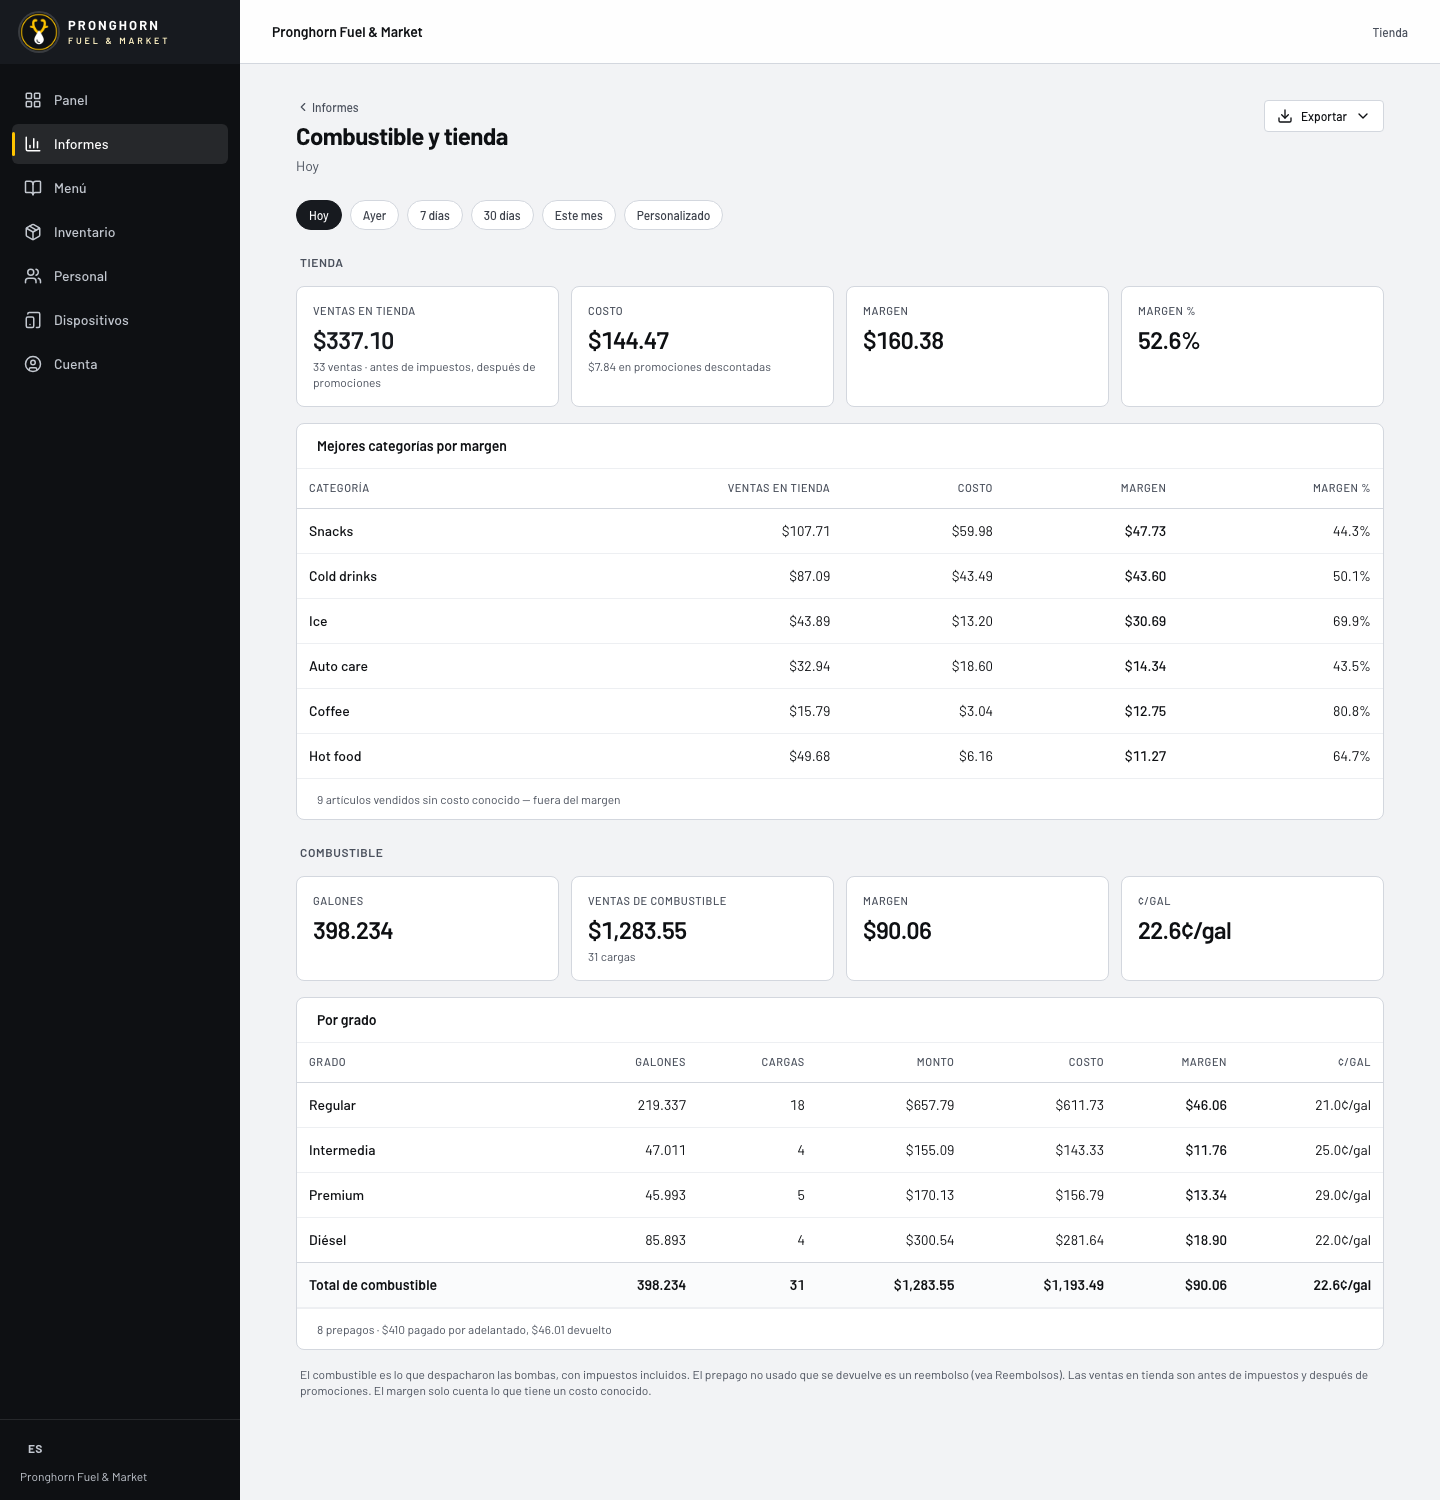
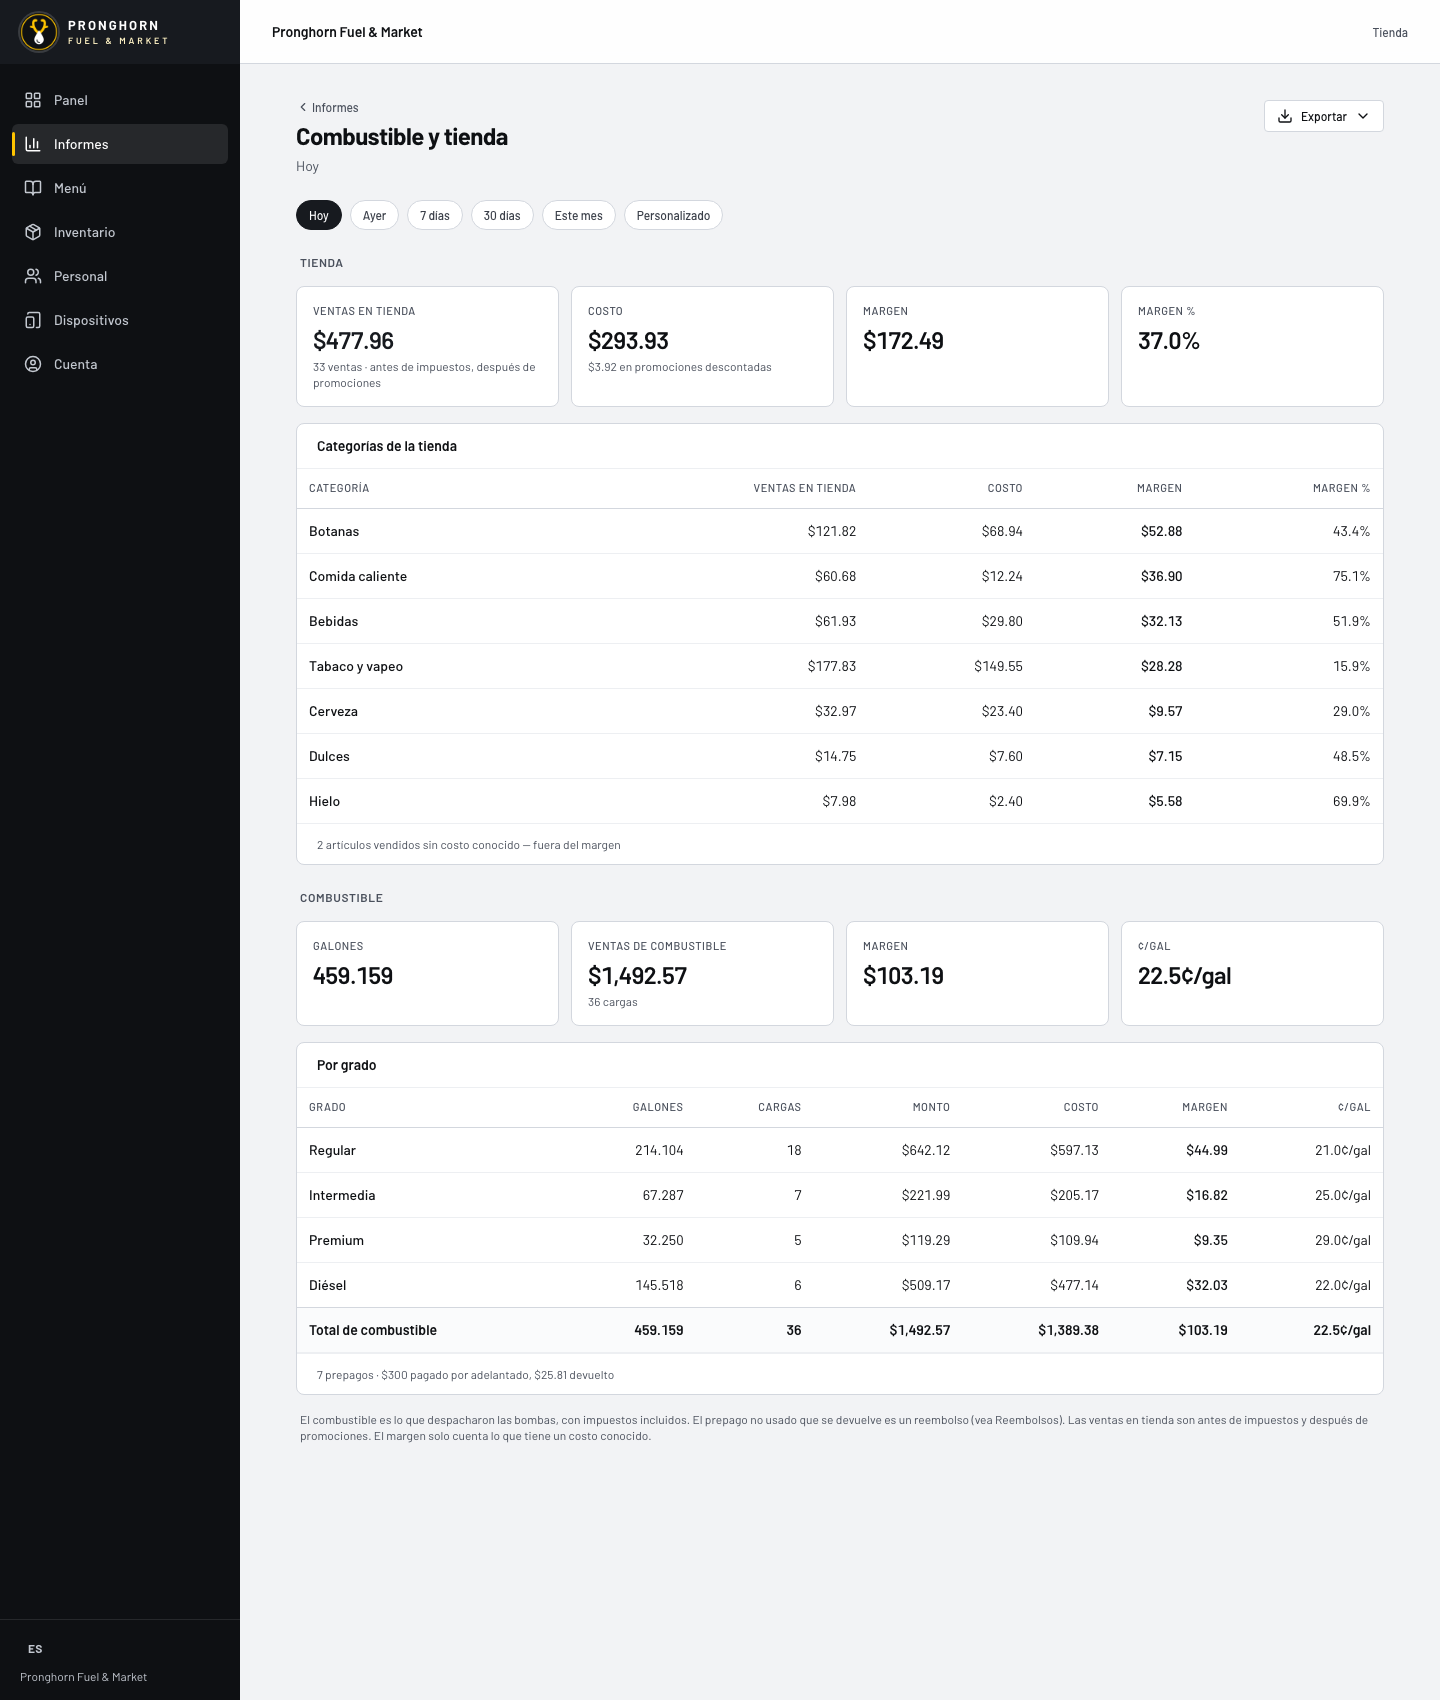
Gas station dashboard: shop items only, and the in-store category mix
- Top items on a fuel-flag client's dashboard leave out fuel lines (fuel has
  its own figures).
- A "Sales by category" card on that dashboard: every in-store category by
  net sales with its margin %, so a thin-margin seller such as tobacco shows.
- The Fuel & in-store page lists every in-store category, not a top slice.
- The store's category ids get names in en/es/fr.
- Refreshed gas-station screenshots.

Claude-Session: https://claude.ai/code/session_01FFVzFamASEeRptia6gTZvm

diff --git a/cloud/web/components/fuel-kpis.tsx b/cloud/web/components/fuel-kpis.tsx
@@ -6,11 +6,14 @@ import { useApi, reportKey } from "@/lib/hooks";
 import type { DateRange } from "@/lib/range";
 import { useMoney } from "@/lib/money";
 import { useScopedKpi } from "@/components/money-scope";
-import { useFuelFmt } from "@/lib/fuel";
+import { useCategoryName, useFuelFmt } from "@/lib/fuel";
 import { useT } from "@/lib/i18n/context";
 import { useStoreHref } from "@/lib/store";
 import type { FuelReport } from "@/lib/types";
 import { Kpi } from "@/components/kpi";
+import { Card, CardContent, CardDescription, CardHeader, CardTitle } from "@/components/ui/card";
+import { Skeleton } from "@/components/ui/skeleton";
+import { EmptyState } from "@/components/states";
 
 /** The report's combined money figures, with their exact per-currency amounts when mixed. */
 export function useFuelKpis(data: FuelReport | undefined) {
@@ -79,5 +82,66 @@ export function FuelDashboardKpis({ range }: { range: DateRange }) {
         />
       </div>
     </section>
+  );
+}
+
+/**
+ * The shop's sales mix (fuel-flag clients' dashboard): every in-store category
+ * by net sales, with its share and margin % — so a big seller with a thin
+ * margin (tobacco) is seen, not just the best margins.
+ */
+export function InStoreCategoryMix({ range }: { range: DateRange }) {
+  const t = useT();
+  const f = useFuelFmt();
+  const m = useMoney();
+  const catName = useCategoryName();
+  const storeHref = useStoreHref();
+  const { data, isLoading } = useApi<FuelReport>(reportKey("/v1/reports/fuel", range));
+  const rows = [...(data?.inStoreByCategory ?? [])].sort(
+    (a, b) => (m.toReporting(b.salesCents, b.currency) ?? b.salesCents) - (m.toReporting(a.salesCents, a.currency) ?? a.salesCents)
+  );
+  const top = Math.max(1, ...rows.map((r) => m.toReporting(r.salesCents, r.currency) ?? r.salesCents));
+  return (
+    <Card>
+      <CardHeader className="flex-row items-center justify-between">
+        <div>
+          <CardTitle>{t("instore_by_category")}</CardTitle>
+          <CardDescription>{t("instore_by_category_sub")}</CardDescription>
+        </div>
+        <Link
+          href={storeHref("/reports/fuel")}
+          className="flex shrink-0 items-center gap-0.5 text-xs font-medium text-navy hover:text-navy-deep"
+        >
+          {t("dash_fuel_details")} <ChevronRight className="h-3.5 w-3.5" />
+        </Link>
+      </CardHeader>
+      <CardContent>
+        {isLoading ? (
+          <div className="space-y-2.5">
+            {Array.from({ length: 5 }).map((_, i) => (
+              <Skeleton key={i} className="h-8 w-full" />
+            ))}
+          </div>
+        ) : rows.length > 0 ? (
+          <ul className="divide-y divide-neutral-200/70">
+            {rows.map((r) => {
+              const share = (m.toReporting(r.salesCents, r.currency) ?? r.salesCents) / top;
+              return (
+                <li key={`${r.categoryId ?? ""}/${r.currency ?? ""}`} className="flex items-center gap-3 py-2">
+                  <span className="w-36 shrink-0 truncate text-sm font-medium sm:w-44">{catName(r)}</span>
+                  <span className="hidden h-2 flex-1 overflow-hidden rounded-full bg-surface-alt sm:block" aria-hidden>
+                    <span className="block h-full rounded-full bg-navy" style={{ width: `${Math.max(2, share * 100)}%` }} />
+                  </span>
+                  <span className="ml-auto w-24 text-right text-sm font-semibold tabular-nums">{m.fmtIn(r.currency, r.salesCents)}</span>
+                  <span className="w-16 text-right text-xs tabular-nums text-neutral-500">{f.pct(r.marginBasisPoints)}</span>
+                </li>
+              );
+            })}
+          </ul>
+        ) : (
+          <EmptyState title={t("instore_empty")} />
+        )}
+      </CardContent>
+    </Card>
   );
 }

diff --git a/cloud/web/app/(app)/reports/fuel/page.tsx b/cloud/web/app/(app)/reports/fuel/page.tsx
@@ -5,8 +5,8 @@ import { useApi, useRange, reportKey } from "@/lib/hooks";
 import { useMoney } from "@/lib/money";
 import { FxNote } from "@/components/money-scope";
 import { useFuelKpis } from "@/components/fuel-kpis";
-import { useFuelFmt } from "@/lib/fuel";
-import { useI18n, useT, useFmt } from "@/lib/i18n/context";
+import { useCategoryName, useFuelFmt } from "@/lib/fuel";
+import { useT, useFmt } from "@/lib/i18n/context";
 import type { MsgKey } from "@/lib/i18n/messages";
 import { ExportMenu } from "@/components/export-menu";
 import { useExportMeta, useStoreExport } from "@/lib/export/report";
@@ -29,7 +29,6 @@ export default function Page() {
 }
 
 const GRADES = new Set(["REG", "MID", "PRE", "DSL"]);
-const TOP_CATEGORIES = 8;
 
 function SectionTitle({ children }: { children: React.ReactNode }) {
   return <h2 className="px-1 pt-2 text-xs font-semibold uppercase tracking-wider text-neutral-500">{children}</h2>;
@@ -45,7 +44,6 @@ function SectionTitle({ children }: { children: React.ReactNode }) {
 function FuelPage() {
   const t = useT();
   const fmt = useFmt();
-  const { name } = useI18n();
   const range = useRange();
   const meta = useExportMeta();
   const storeExport = useStoreExport();
@@ -71,11 +69,12 @@ function FuelPage() {
   const catCur = (r: InStoreCategoryRow) => r.currency ?? data?.currency;
   // the four standard grades in the reader's language; any other, as the store named it
   const gradeName = (r: FuelGradeRow) => (GRADES.has(r.grade) ? t(`fuel_grade_${r.grade}` as MsgKey) : r.gradeName);
-  const catName = (r: InStoreCategoryRow) => name(r.nameFr, r.nameEn) || r.categoryId || "—";
+  const catName = useCategoryName();
   const oneCurrency = new Set((data?.byGrade ?? []).map(gradeCur)).size <= 1;
   const costed = (r: FuelGradeRow) => (r.costedCount ?? 0) > 0;
   const both = (k?: { value: string; sub?: string }) => [k?.value, k?.sub].filter(Boolean).join(" — ");
-  const categories = (data?.inStoreByCategory ?? []).slice(0, TOP_CATEGORIES);
+  // every category, best margin first: a thin-margin one (tobacco) is part of the picture too
+  const categories = data?.inStoreByCategory ?? [];
   const uncostedLines = shop?.uncostedLineCount ?? 0;
   const uncostedFills = pumps?.uncostedCount ?? 0;
   const prepayNote =
@@ -107,7 +106,7 @@ function FuelPage() {
       ],
       sections: [
         {
-          title: t("instore_top_categories"),
+          title: t("instore_categories"),
           columns: [
             col.text<InStoreCategoryRow>(t("col_category"), catName),
             col.money<InStoreCategoryRow>(t("fuel_in_store"), (r) => r.salesCents),
@@ -225,7 +224,7 @@ function FuelPage() {
             loadingCard
           ) : categories.length > 0 ? (
             <Card>
-              <div className="border-b border-neutral-100 px-5 py-3 text-sm font-semibold">{t("instore_top_categories")}</div>
+              <div className="border-b border-neutral-100 px-5 py-3 text-sm font-semibold">{t("instore_categories")}</div>
               <Table>
                 <TableHeader>
                   <TableRow>

diff --git a/cloud/web/app/(app)/page.tsx b/cloud/web/app/(app)/page.tsx
@@ -34,7 +34,7 @@ import { BarChart, Donut, LineChart } from "@/components/charts";
 import { StoreBreakdown, useStoreSeries } from "@/components/store-breakdown";
 import { useStoreHref, useStores } from "@/lib/store";
 import { useBrand, useChartTheme } from "@/lib/brand/context";
-import { FuelDashboardKpis } from "@/components/fuel-kpis";
+import { FuelDashboardKpis, InStoreCategoryMix } from "@/components/fuel-kpis";
 import { cn } from "@/lib/utils";
 
 export default function Page() {
@@ -67,6 +67,8 @@ function Dashboard() {
   const hourly = useApi<HourlyReport>(reportKey("/v1/reports/hourly", range));
   const items = useApi<ItemsReport>(reportKey("/v1/reports/items", range));
 
+  // a gas station's fuel has its own figures: top items are the shop's
+  const topItems = (items.data?.rows ?? []).filter((r) => !fuel || r.categoryId !== "fuel");
   const s = summary.data;
   const money = s?.money;
   // a combined figure + (mixed currencies) its exact amounts per currency
@@ -317,6 +319,8 @@ function Dashboard() {
         </Card>
       </div>
 
+      {fuel && <InStoreCategoryMix range={range} />}
+
       <Card>
         <CardHeader className="flex-row items-center justify-between">
           <CardTitle>{t("dash_top_items")}</CardTitle>
@@ -336,9 +340,9 @@ function Dashboard() {
             </div>
           ) : items.error ? (
             <ErrorState message={items.error.message} onRetry={() => items.mutate()} />
-          ) : items.data && items.data.rows.length > 0 ? (
+          ) : topItems.length > 0 ? (
             <div className="divide-y divide-neutral-200/70">
-              {items.data.rows.slice(0, 5).map((r, i) => (
+              {topItems.slice(0, 5).map((r, i) => (
                 <div key={`${r.itemId ?? `open-${i}`}-${r.currency ?? ""}`} className="flex items-center gap-3 py-2.5">
                   <span className="w-5 text-center text-xs font-semibold text-neutral-500">{i + 1}</span>
                   <div className="min-w-0 flex-1">

diff --git a/cloud/web/lib/i18n/messages.ts b/cloud/web/lib/i18n/messages.ts
@@ -341,9 +341,24 @@ export const messages = {
     "{n} pleins sans coût connu — hors de la marge",
     "{n} fill-ups without a known cost — left out of the margin"
   ),
-  instore_top_categories: m("Meilleures catégories par marge", "Top categories by margin"),
   instore_empty: m("Aucune vente en magasin pour cette période", "No in-store sales in this range"),
   dash_fuel_details: m("Carburant et magasin", "Fuel & in-store"),
+  instore_categories: m("Catégories du magasin", "In-store categories"),
+  instore_by_category: m("Ventes par catégorie", "Sales by category"),
+  instore_by_category_sub: m("Ventes nettes du magasin, avant taxes · marge où le coût est connu", "In-store net sales, before tax · margin where cost is known"),
+  // a gas station's category ids (the store's own); names shown in the reader's language
+  store_cat_drinks: m("Boissons", "Drinks"),
+  store_cat_beer: m("Bière", "Beer"),
+  store_cat_snacks: m("Collations", "Snacks"),
+  store_cat_candy: m("Bonbons", "Candy"),
+  store_cat_hot_food: m("Repas chauds", "Hot food"),
+  store_cat_grocery: m("Épicerie", "Grocery"),
+  store_cat_automotive: m("Automobile", "Automotive"),
+  store_cat_health: m("Santé et beauté", "Health & beauty"),
+  store_cat_general: m("Articles divers", "General merchandise"),
+  store_cat_tobacco: m("Tabac et vapotage", "Tobacco & Vape"),
+  store_cat_ice: m("Glace", "Ice"),
+  store_cat_fuel: m("Carburant", "Fuel"),
   fuel_gallons: m("Gallons", "Gallons"),
   fuel_sales: m("Ventes de carburant", "Fuel sales"),
   fuel_fills: m("Pleins", "Fill-ups"),

diff --git a/cloud/web/lib/fuel.ts b/cloud/web/lib/fuel.ts
@@ -2,7 +2,8 @@
 
 import { useMemo } from "react";
 import { useI18n, useT } from "./i18n/context";
-import type { Locale } from "./i18n/messages";
+import type { Locale, MsgKey } from "./i18n/messages";
+import type { InStoreCategoryRow } from "./types";
 
 // Number formats for a gas station's figures (GET /v1/reports/fuel): gallons
 // to the pump's three decimals, margin in cents per gallon (the API sends
@@ -11,6 +12,21 @@ import type { Locale } from "./i18n/messages";
 // never as 0 or 100%.
 
 const NUMBER_LOCALE: Record<Locale, string> = { en: "en-US", fr: "fr-CA", es: "es-US" };
+
+/** A gas station's category ids (CONTRACT §2, Fuel) with portal names in every language. */
+const STORE_CATEGORIES = new Set([
+  "drinks", "beer", "snacks", "candy", "hot-food", "grocery", "automotive", "health", "general", "tobacco", "ice", "fuel",
+]);
+
+/** A category's name: the known ids in the reader's language, else the store's own name, else its id. */
+export function useCategoryName(): (r: Pick<InStoreCategoryRow, "categoryId" | "nameFr" | "nameEn">) => string {
+  const { name } = useI18n();
+  const t = useT();
+  return (r) =>
+    r.categoryId && STORE_CATEGORIES.has(r.categoryId)
+      ? t(`store_cat_${r.categoryId.replace(/-/g, "_")}` as MsgKey)
+      : name(r.nameFr, r.nameEn) || r.categoryId || "—";
+}
 
 export interface FuelFmt {
   /** 10052 → "10.052" */

diff --git a/cloud/web/lib/i18n/messages.es.ts b/cloud/web/lib/i18n/messages.es.ts
@@ -212,9 +212,23 @@ export const es: Record<MsgKey, string> = {
   instore_promotions: "{amount} en promociones descontadas",
   margin_uncosted_lines: "{n} artículos vendidos sin costo conocido — fuera del margen",
   margin_uncosted_fills: "{n} cargas sin costo conocido — fuera del margen",
-  instore_top_categories: "Mejores categorías por margen",
   instore_empty: "No hay ventas en tienda en este período",
   dash_fuel_details: "Combustible y tienda",
+  instore_categories: "Categorías de la tienda",
+  instore_by_category: "Ventas por categoría",
+  instore_by_category_sub: "Ventas netas de la tienda, antes de impuestos · margen donde se conoce el costo",
+  store_cat_drinks: "Bebidas",
+  store_cat_beer: "Cerveza",
+  store_cat_snacks: "Botanas",
+  store_cat_candy: "Dulces",
+  store_cat_hot_food: "Comida caliente",
+  store_cat_grocery: "Abarrotes",
+  store_cat_automotive: "Automotriz",
+  store_cat_health: "Salud y belleza",
+  store_cat_general: "Mercancía general",
+  store_cat_tobacco: "Tabaco y vapeo",
+  store_cat_ice: "Hielo",
+  store_cat_fuel: "Combustible",
   fuel_gallons: "Galones",
   fuel_sales: "Ventas de combustible",
   fuel_fills: "Cargas",
